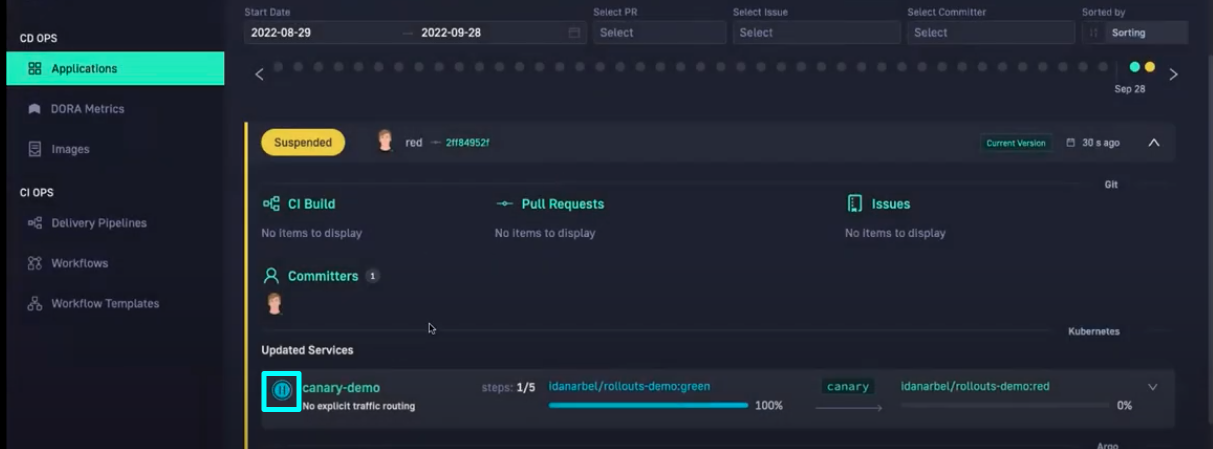
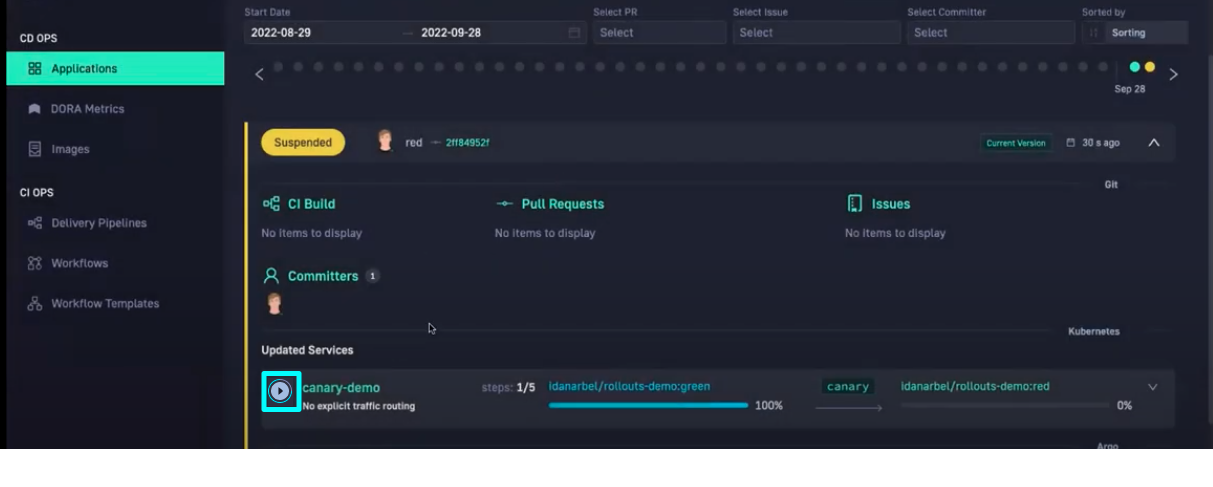
Updates

diff --git a/_docs/deployment/manage-application.md b/_docs/deployment/manage-application.md
@@ -257,20 +257,23 @@ Control ongoing rollouts by resuming indefinitely paused steps, promoting rollou
 <br>
 {:/}
 
-#### Resume an indefinitely paused rollout step
-Resume an indefinitely paused rollout directly from the Timeline tab in the Applications dashboard in Codefresh, with a single click.
+#### Pause/resume ongoing rollouts
+Pause and resume ongoing rollouts directly from the Timeline tab in the Applications dashboard.  
+If the rollout is already automatically paused as result of a step definition, this action pauses the rollout even after the pause duration.
+
 
 1. In the Codefresh UI, go to the [Applications dashboard](https://g.codefresh.io/2.0/applications-dashboard/list){:target="\_blank"}.
 1. Select the application and go to the Timelines tab.
-1. In the deployment record for the ongoing rollout, click **Resume**<!---{::nomarkdown}<img src="../../../images/icons/rollout-resume-indefinite-pause" display=inline-block"> {:/}-->.
+1. In the deployment record for the ongoing rollout, expand **Updated Services**.
+1. Based on the current state of the rollout, click **Pause** or **Resume**, as relevant.
 
 {% include 
    image.html 
    lightbox="true" 
    file="/images/applications/rollout-resume-indefinite-pause.png" 
    url="/images/applications/rollout-resume-indefinite-pause.png" 
-   alt="Resume indefinitely paused rollout" 
-   caption="Resume indefinitely paused rollout"
+   alt="Resume paused rollout" 
+   caption="Resume paused rollout"
    max-width="70%" 
    %}
 
@@ -278,13 +281,13 @@ Resume an indefinitely paused rollout directly from the Timeline tab in the Appl
 <br>
 {:/}
 
-#### Manage an ongoing rollout
+#### Manage an ongoing rollout with the Rollout Player
 Manage an ongoing rollout using the controls in the Rollout Player to skip steps, and promote rollouts.
 
 1. In the Codefresh UI, go to the [Applications dashboard](https://g.codefresh.io/2.0/applications-dashboard/list){:target="\_blank"}.
 1. Select the application and go to the Timelines tab.
 1. In the deployment record for the ongoing rollout, click the name of the rollout. 
-1. Select the option in the Rollout Player.
+1. Select the required option in the Rollout Player.
 
 
 {% include
@@ -304,15 +307,16 @@ The table describes the controls in the Rollout Player.
 | Rollback player option   | Description |  
 | --------------  | ------------| 
 | **Rollback**      | Not available currently.  | 
-| **Resume** <!---{::nomarkdown}<img src="../../../images/icons/rollout-resume.png" display=inline-block"> {:/}-->| Resume a step that has been paused indefinitely. | 
-| **Skip step** <!---{::nomarkdown}<img src="../../../images/icons/rollout-skip-step.png" display=inline-block"> {:/}--> | Skip execution of current step. Use this option to skip a step with a fixed pause duration. Such steps are marked as Skipped in the rollout visualization. | 
-| **Promote full** <!---{::nomarkdown}<img src="../../../images/icons/rollout-promote-full.png" display=inline-block"> {:/} -->  | Skip remaining pause, traffic routing, and analysis steps, and deploy the current release. |        
+| **Pause**         | Pause the rollout. If the rollout is already automatically paused as the result of a step definition, clicking Pause pauses the rollout also after the pause duration. | 
+| **Resume** <!---{::nomarkdown}<img src="../../../images/icons/rollout-resume.png" display=inline-block"> {:/}-->| Resume a rollout that was paused either manually by clicking Pause, or automatically through the step's definition. | 
+| **Skip step** <!---{::nomarkdown}<img src="../../../images/icons/rollout-skip-step.png" display=inline-block"> {:/}--> | Skip execution of current step. Such steps are marked as Skipped in the rollout visualization. | 
+| **Promote full** <!---{::nomarkdown}<img src="../../../images/icons/rollout-promote-full.png" display=inline-block"> {:/} -->  | Skip all remaining steps, and deploy the current image. |        
 
 {::nomarkdown}
 <br>
 {:/}
 
-#### Manage the rollout resource
+#### Manage the `rollout` resource
 
 Control the rollout through the options available for the Rollout resource. 
 
@@ -337,8 +341,8 @@ The table describes the options for the `Rollout` resource.
 | --------------    | --------------           |
 |**Abort**              | Terminate the current rollout. | 
 |**Pause**              | Pause the current rollout.  | 
-|**Promote-full**       | Promote the current rollout by skipping paused, traffic routing, and analysis steps, and deploy the current release.  | 
-|**Restart**            | Manually restart the pods of the rollout. | 
+|**Promote-full**       | Promote the current rollout by skipping all remaining stages in the rollout, and deploy the current image.  | 
+|**Restart**            | Manually restart the pods of the rollout.| 
 |**Resume**             | Resume a rollout that has been paused. | 
 |**Retry**              | Retry a rollout that has been aborted. Available only when a rollout has been aborted. | 
 |**Skip-current-step**  | Skip executing the current step, and continue with the next step. | 

diff --git a/_docs/deployment/applications-dashboard.md b/_docs/deployment/applications-dashboard.md
@@ -318,7 +318,7 @@ max-width="50%"
 %}
 
 **Resource info**  
-Mouse over a node to see a tooltip for that resource. For detailed information, select the resource; see [Detailed resource information](#detailed-resource-information) in this article.
+Mouse over a node to see a tooltip for that resource. For detailed information, select the resource.
 
 {% include
 image.html
@@ -534,16 +534,6 @@ max-width="30%"
 Each deployment record displays the complete CI history for that deployment.
 
 
-{% include
-image.html
-lightbox="true"
-file="/images/applications/app-dashboard-time-expanded-card.png"
-url="/images/applications/app-dashboard-time-expanded-card.png"
-alt="Applications Dashboard: Deployment record for selected application in Timeline tab"
-caption="Applications Dashboard: Deployment record for selected application in Timeline tab"
-max-width="70%"
-%}
-
 * The **CI Builds** shows the image(s) created or updated during deployment. Click to see the **Images** view in a new browser window.
 * The **Pull Request (PRs)** used for the commit.
 * The Jira **Issues** the PR aims to resolve or has resolved, with the current status.
@@ -619,6 +609,7 @@ caption="Rollout in progress for deployment"
 max-width="50%"
 %}
 
+Based on the current state of the rollout, you can pause and resume an ongoing rollout.  
 Here is an example of the rollout for the same deployment on completion. All traffic has been routed to the new version. 
 
 {% include
